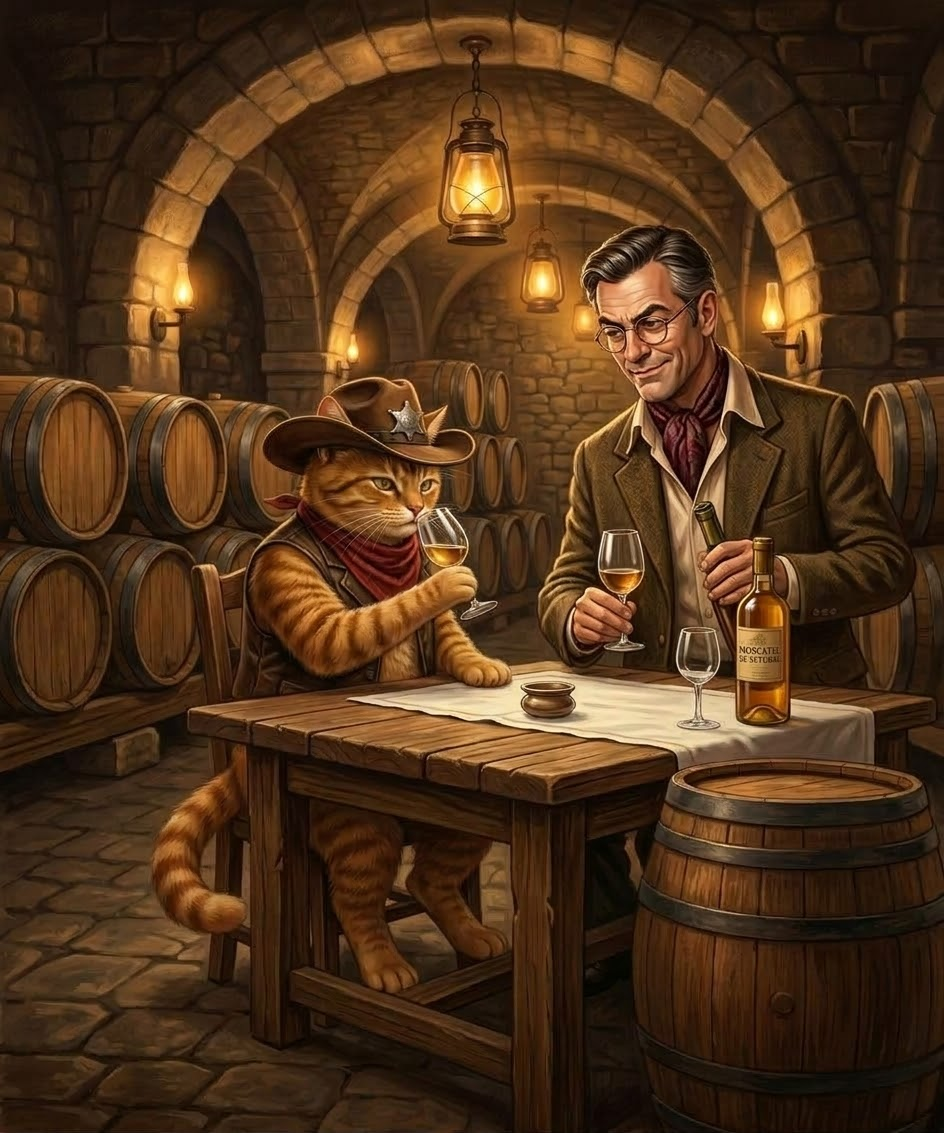
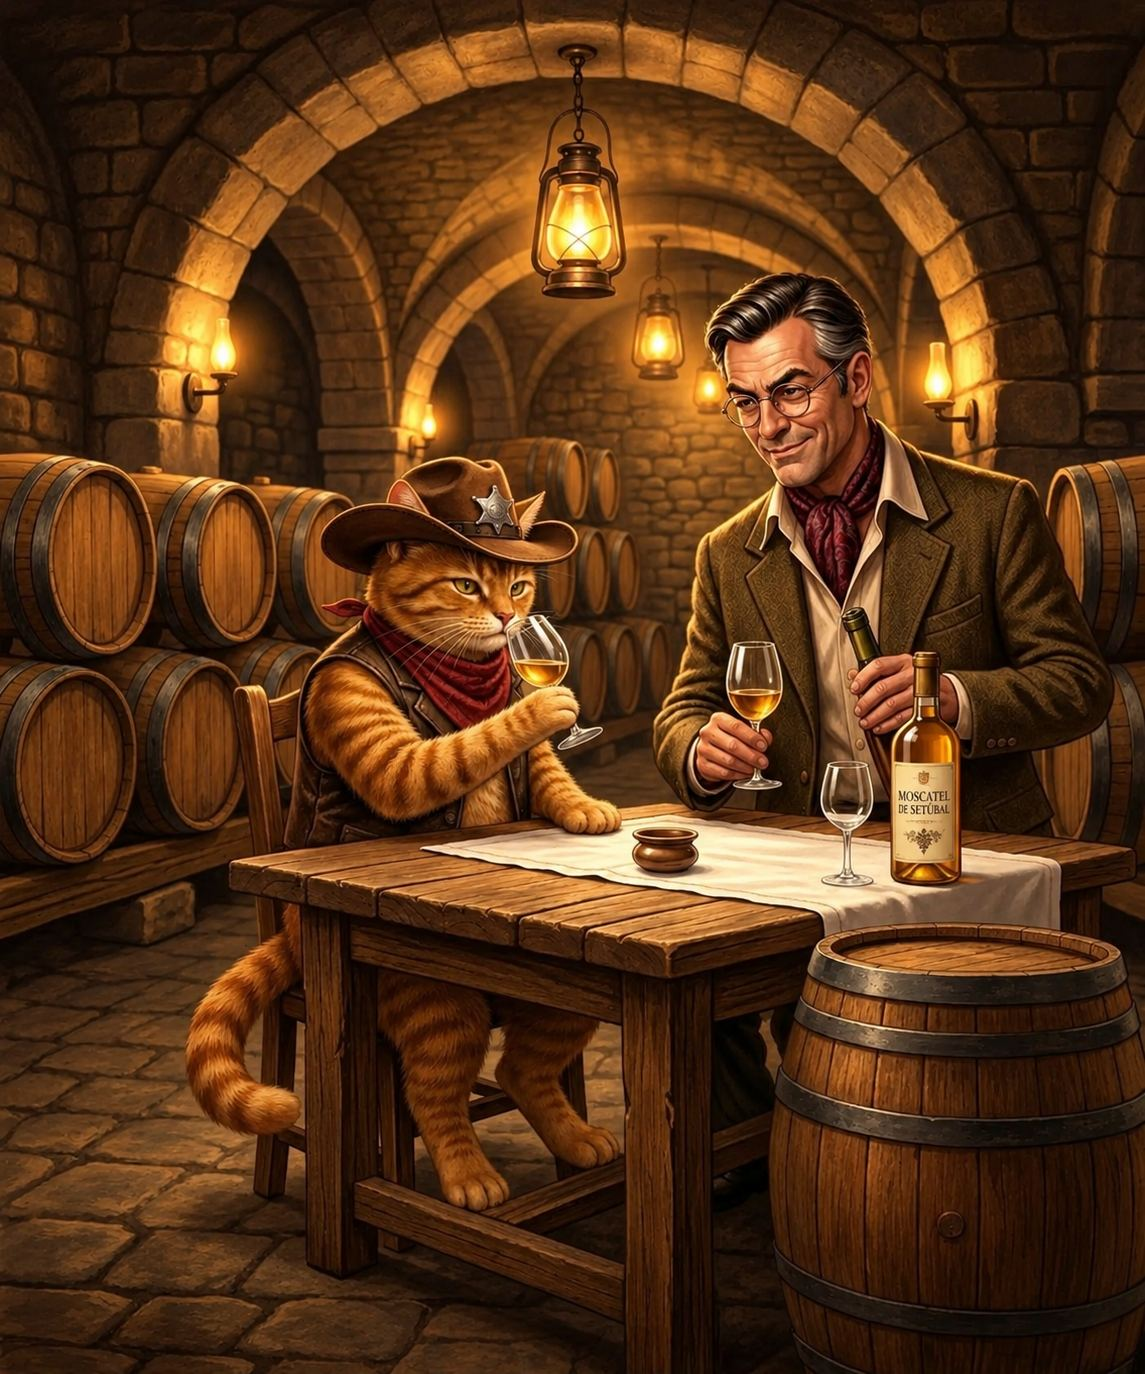
Estrada com o caminho de terra e Câmara com a versão final
- assets/explorar/estrada.jpg: recorte da zona do caminho de terra (caixas de
  uvas, barris e produtos à beira), para já não parecer a casa da Loja
- assets/ecras/camera_.jpg: versão final da Câmara (camera_3.png convertida
  para JPEG, 240 KB); assets/explorar/camara.jpg refeito a partir dela
- camera_3.png e camera_reuniao.jpg saem da raiz
- CREDITOS.md e scripts/verificar-explorar-cartoes.js atualizados

Claude-Session: https://claude.ai/code/session_01VdNE2mv8WC8wrWtkHCq6DV

diff --git a/scripts/verificar-explorar-cartoes.js b/scripts/verificar-explorar-cartoes.js
@@ -184,7 +184,8 @@ function suite(fontes) {
   ['assets/ecras/camera_.jpg', 'assets/ecras/cepa_roxa.jpg', 'assets/ecras/enciclopedia.jpg', 'assets/ecras/casa_loja_meio_da_vinha_4.jpg', 'assets/ecras/festa_vindima_pessoas.jpg', 'imagens_JOGO_TELEGRAM/caminho_lojas_casa_trabalhadores_3.jpg'].forEach(function (f) {
     ok(fs.existsSync(path.join(RAIZ, f)), 'o original continua em ' + f);
   });
-  ['camera_.jpg', 'cepa_roxa.jpg'].forEach(function (f) { ok(!fs.existsSync(path.join(RAIZ, f)), f + ' já não está na raiz'); });
+  ['camera_.jpg', 'camera_3.png', 'camera_reuniao.jpg', 'cepa_roxa.jpg'].forEach(function (f) { ok(!fs.existsSync(path.join(RAIZ, f)), f + ' já não está na raiz (sem duplicados da Câmara nem da Cepa Roxa)'); });
+  ok(fs.existsSync(path.join(RAIZ, 'assets/ecras/camera_.jpg')) && fs.statSync(path.join(RAIZ, 'assets/ecras/camera_.jpg')).size <= 250 * 1024, 'assets/ecras/camera_.jpg (a versão final em JPEG) pesa no máximo 250 KB');
   ['moscatel_roxo_com_uvas.jpg', 'barril.jpg', 'Yoshi_Cat.jpg'].forEach(function (f) { ok(fs.existsSync(path.join(RAIZ, f)), f + ' fica na raiz (próximo PR)'); });
   const cred = fs.readFileSync(path.join(RAIZ, 'CREDITOS.md'), 'utf8');
   ok(/camera_\.jpg/.test(cred) && /cepa_roxa\.jpg/.test(cred), 'CREDITOS.md fala de camera_.jpg e cepa_roxa.jpg');

diff --git a/CREDITOS.md b/CREDITOS.md
@@ -17,7 +17,7 @@ Dados do tempo: Open-Meteo (open-meteo.com).
 ## Imagens novas
 Imagens geradas com IA (Grok/Gemini), sem marca de serviço, carregadas a 04/10/2026.
 
-`assets/ecras/camera_.jpg` e `assets/ecras/cepa_roxa.jpg` (carregadas a 11/10/2026): imagens geradas com IA pelo autor do jogo, sem marcas. Ficam em tamanho original para um uso futuro como fundo de ecrã; no Explorar usa-se só a versão pequena de cada uma (ver `assets/explorar/` mais abaixo).
+`assets/ecras/camera_.jpg` e `assets/ecras/cepa_roxa.jpg` (carregadas a 11/10/2026): imagens geradas com IA pelo autor do jogo, sem marcas. A `camera_.jpg` é a versão final da Câmara (enviada como `camera_3.png`, convertida para JPEG de 1145x1374 e 240 KB; a versão antiga e o `camera_reuniao.jpg` foram retirados). Ficam em tamanho original para um uso futuro como fundo de ecrã; no Explorar usa-se só a versão pequena de cada uma (ver `assets/explorar/` mais abaixo).
 
 ## Imagens e sons que o jogo usa
 
@@ -105,10 +105,10 @@ Versões pequenas (JPEG 640x340, até 60 KB cada) feitas só para os cartões do
 
 | Ficheiro | Recorte de | Onde se usa |
 |---|---|---|
-| `assets/explorar/estrada.jpg` | `imagens_JOGO_TELEGRAM/caminho_lojas_casa_trabalhadores_3.jpg` | cartão da Estrada |
+| `assets/explorar/estrada.jpg` | `imagens_JOGO_TELEGRAM/caminho_lojas_casa_trabalhadores_3.jpg` (zona do caminho de terra, y 640 a 1019) | cartão da Estrada |
 | `assets/explorar/loja.jpg` | `assets/ecras/casa_loja_meio_da_vinha_4.jpg` (versão de sol) | cartão da Loja |
 | `assets/explorar/lagar.jpg` | `assets/ecras/festa_vindima_pessoas.jpg` | cartão do Lagar |
-| `assets/explorar/camara.jpg` | `assets/ecras/camera_.jpg` | cartão da Câmara |
+| `assets/explorar/camara.jpg` | `assets/ecras/camera_.jpg` (versão final, gato e Dr. Henrique à mesa) | cartão da Câmara |
 | `assets/explorar/roxo.jpg` | `assets/ecras/cepa_roxa.jpg` | cartão da Cepa Roxa |
 | `assets/explorar/enciclopedia.jpg` | `assets/ecras/enciclopedia.jpg` | cartão da Enciclopédia (topo do Explorar) |
 
